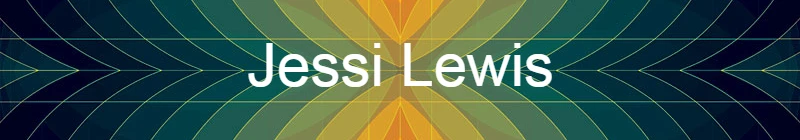
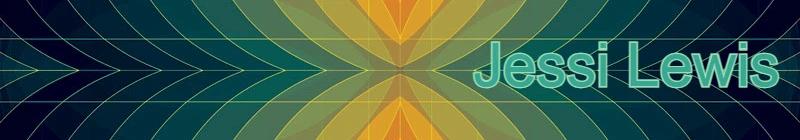
Finish up Pre-assessment

Changed region(s): [[0.3125, 0.2857, 1.0, 0.6286]]

diff --git a/pre-assessment/index.html b/pre-assessment/index.html
@@ -1,41 +1,138 @@
 <!doctype html>
 <html lang="en">
-<head>
-<meta charset="UTF-8"><!--Declares the character set-->
-<meta name="description" content="This is a skills pre-assessment for Mobile Web Development" />
-<meta name="author" content="Jessi Lewis"/>
-<title>IFSC 34203 Pre-Assessment | Jessi Lewis</title>
-<link rel="stylesheet" href="assets/css/screen.css">
-</head>
-<body>
-<div id="container">
-  <div id="header">
-    <h1><a href="index.html">Jessi Lewism</a></h1>
-  </div>
-  <div id="nav">
-    <ul>
-      <li><a href="http://ualr.edu">UALR</a></li>
-      <li><a href="https://thomaswallace.net/course/mobile-web/spring-2018/">Course Homepage</a></li>
-      <li><a href="http://www.w3.org/">W3C</a></li>
-    </ul>
-  </div>
-  <div id="content">
-    <h2>My Assessment</h2>
-    <p>The most important goal of effective communication is clarity. Clarity is not the same as simplicity . Often, simple things are clear if the message is intended to be brief and small, but often the message is about a complex relationship that can only be presented with a necessarily large amount of data. </p>
-    <p>This complexity can be made to appear clear by effective organization and presentation and need not be reduced to meaningless "bite-sized" chunks of data, as simplification usually does. </p>
-    <p>Clarity refers to the focus on one particular message or goal at a time, rather than attempting to accomplish too much at once. Simplicity is often responsible for the "dumbing" of information rather than the illumination of it.</p>
-    <h3>Questions</h3>
-    <p>Please answer the following questions below. Remember to markup the information properly using HTML</p>
-    <h4>Explain the difference between the &quot;alt&quot; attribute and the &quot;title&quot; attribute. </h4>
-    <p>Answer goes here...</p>
-    <h4>Please provide an example below of how to mark up a definition from the dictionary</h4>
-    <p>Answer goes here...</p>
-    <h4>Provide an example of link pointing to your favorite site &amp; create a style rule to change the background color of the link when the user hovers over it. </h4>
-    <p>Answer goes here... </p>
-  </div>
-  <div id="footer">
-    <h6>Footer</h6>
-  </div>
-</div>
-</body>
+  <head>
+    <meta charset="UTF-8" />
+    <!--Declares the character set-->
+    <meta
+      name="description"
+      content="This is a skills pre-assessment for Mobile Web Development"
+    />
+    <meta name="author" content="Jessi Lewis" />
+    <title>IFSC 34203 Pre-Assessment | Jessi Lewis</title>
+    <link rel="stylesheet" href="assets/css/screen.css" />
+  </head>
+  <body>
+    <div id="container">
+      <div id="header">
+        <h1><a href="../index.html">Jessi Lewis</a></h1>
+      </div>
+      <div id="nav">
+        <ul>
+          <li>
+            <a href="http://ualr.edu" title="Visit UALR Homepage">UALR</a>
+          </li>
+          <li>
+            <a
+              href="https://thomaswallace.net/course/mobile-web/spring-2018/"
+              title="View the Mobile Web Development Course Page"
+              >Course Homepage</a
+            >
+          </li>
+          <li>
+            <a
+              href="http://www.w3.org/"
+              title="Visit the World Wide Web Consortium (W3C)"
+              >W3C</a
+            >
+          </li>
+          <li>
+            <a
+              href="https://www.metroems.org/"
+              title="Visit Metropolitan Emergency Medical Services (MEMS) website"
+              >MEMS</a
+            >
+          </li>
+        </ul>
+      </div>
+      <div id="content">
+        <h2>My Assessment</h2>
+        <!--Hey Thomas!-->
+        <p>
+          The most important goal of effective communication is clarity. Clarity
+          is not the same as simplicity . Often, simple things are clear if the
+          message is intended to be brief and small, but often the message is
+          about a complex relationship that can only be presented with a
+          necessarily large amount of data.
+        </p>
+        <p class="alert">
+          This complexity can be made to appear clear by effective organization
+          and presentation and need not be reduced to meaningless "bite-sized"
+          chunks of data, as simplification usually does.
+        </p>
+        <p>
+          Clarity refers to the focus on one particular message or goal at a
+          time, rather than attempting to accomplish too much at once.
+          Simplicity is often responsible for the "dumbing" of information
+          rather than the illumination of it.
+        </p>
+        <h3>Questions</h3>
+        <p>
+          Please answer the following questions below. Remember to markup the
+          information properly using HTML
+        </p>
+        <h4>
+          Explain the difference between the &quot;alt&quot; attribute and the
+          &quot;title&quot; attribute.
+        </h4>
+        <figure class="content-image">
+          <img
+            src="assets/img/content-image2.jpg"
+            alt="A bearded man in a suit holding a beer, with meme text about not always using responsive design but doing so for mobile visitors."
+          />
+          <figcaption>
+            Meme emphasizing the importance of responsive design for mobile
+            users.
+          </figcaption>
+        </figure>
+        <p class="answer">
+          The alt attribute provides alternate text for an image when the image
+          cannot be displayed and is used by screen readers to describe the
+          image to users who rely on assistive technology.
+        </p>
+
+        <p class="answer">
+          The title attribute provides additional information about an element,
+          ususally displayed when a user hovers over it with the mouse.
+        </p>
+        <h4>
+          Please provide an example below of how to mark up a definition from
+          the dictionary
+        </h4>
+        <dl class="answer">
+          <dt>Peregrinate</dt>
+          <dd class="definition">- to travel or wonder from place to place</dd>
+          <dd class="example">
+            Example: In web design, users peregrinate through a website as they
+            move between pages, menus, and content.
+          </dd>
+          <dt>Hierarchy</dt>
+          <dd class="definition">
+            - a system in which elements are ranked or organized according to
+            importanct.
+          </dd>
+          <dd class="example">
+            Example: In web design, visual hierarchy uses size, color, spacing
+            and placement to signal what matters most.
+          </dd>
+        </dl>
+        <h4>
+          Provide an example of link pointing to your favorite site &amp; create
+          a style rule to change the background color of the link when the user
+          hovers over it.
+        </h4>
+        <a href="https://goblin.tools/" class="favorite-link" target="_blank"
+          >Goblin Tools</a
+        >
+      </div>
+      <div id="footer">
+        <h5>&copy; 2026 Jessi Lewis</h5>
+        <a href="#top">Back to top</a>
+        <a href="assets/img/html-validation.png" target="_blank"
+          >HTML Validation</a
+        >
+      </div>
+    </div>
+  </body>
 </html>
+
+<!--ChatGPT used to generate random definitions with examples for the definiton list. Also used to help remember how to put an image into content area.-->

diff --git a/pre-assessment/assets/css/screen.css b/pre-assessment/assets/css/screen.css
@@ -23,8 +23,16 @@ body {
   border: 1px solid #ccc;
 }
 #header {
+  background-image: url(../img/masthead.webp);
+  background-repeat: repeat-x;
+  height: 140px;
 }
 #header h1 a {
+  display: block;
+  height: 140px;
+  text-indent: 100%;
+  white-space: nowrap;
+  overflow: hidden;
 }
 #nav {
   background-color: #000;
@@ -64,14 +72,111 @@ body {
   margin-top: 5px;
   margin-bottom: 15px;
 }
+
+#content dt,
+.definition {
+  display: inline;
+}
+
+#content dt {
+  font-weight: bold;
+  text-decoration: underline;
+}
+
+#content h2 {
+  color: #3ca792;
+  font-size: 2rem;
+  border-bottom: 3px solid #3ca792;
+  padding-bottom: 5px;
+  text-shadow: 1px 1px 2px rgba(0, 0, 0, 0.15);
+}
+
+#content h3 {
+  color: #3ca792;
+  font-style: italic;
+  font-size: 1.4rem;
+  margin-top: 2em;
+}
+
+#content h4 {
+  color: #3ca792;
+  font-size: 1rem;
+  border-left: 4px solid #3ca792;
+  padding-left: 0.5em;
+}
+
 #footer {
   background-color: #000;
   color: #fff;
-  height: 25px;
+  height: 50px;
 }
-#footer h6 {
+
+#footer h6,
+#footer a {
   font-size: 12px;
   line-height: 25px;
   margin-right: 20px;
   margin-left: 20px;
+  text-decoration: none;
+  color: azure;
 }
+
+#footer a:hover {
+  text-decoration: underline;
+}
+
+#footer a:visited {
+  color: #3ca792;
+}
+
+.alert {
+  background-color: #d98d30;
+  color: azure;
+}
+
+.favorite-link {
+  color: black;
+  text-decoration: none;
+  margin-left: 40px;
+  margin-right: 40px;
+  font-size: 15px;
+}
+
+.favorite-link:hover {
+  background-color: #d99c2b;
+  text-decoration: underline;
+}
+
+.answer {
+  margin-left: 40px;
+  margin-right: 40px;
+  font-size: 15px;
+}
+
+.example {
+  font-style: italic;
+  margin-left: 20px;
+}
+
+.content-image {
+  float: right;
+  max-width: 40%;
+  margin: 0 0 15px 20px;
+}
+
+.content-image img {
+  width: 100%;
+  height: auto;
+  display: block;
+  border: 2px solid #000;
+  padding: 5px;
+  background: #3ca792;
+}
+
+.content-image figcaption {
+  font-size: 0.9rem;
+  margin-top: 6px;
+  color: azure;
+}
+
+/*Used ChatGPT to help brainstorm different style ideas that I could use in CSS. Also, used to recall HTML & CSS syntax. Also, used to help with floating the image. I couldn't remember how to get it where I wanted it.*/
